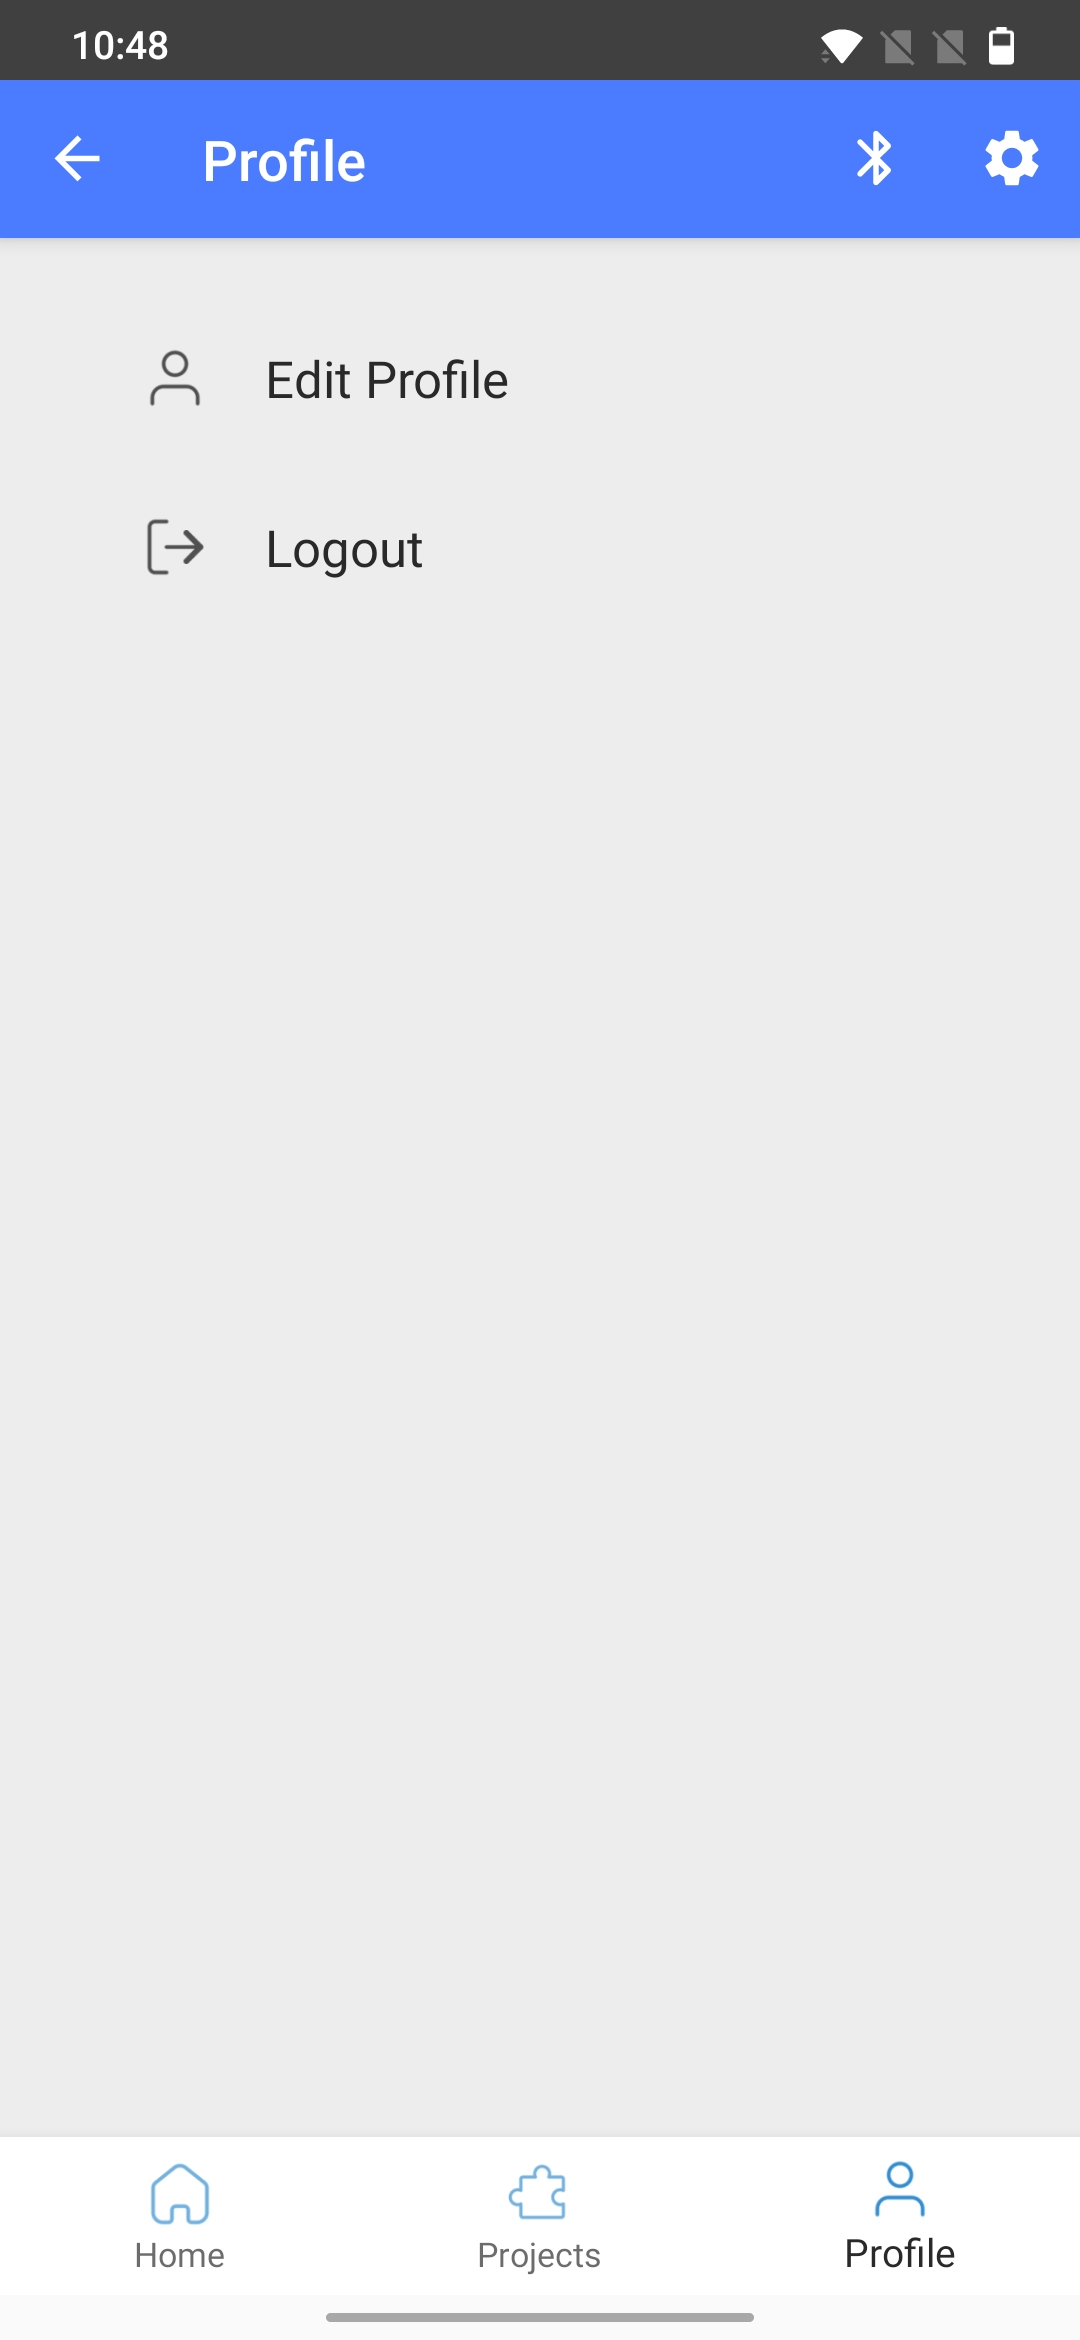
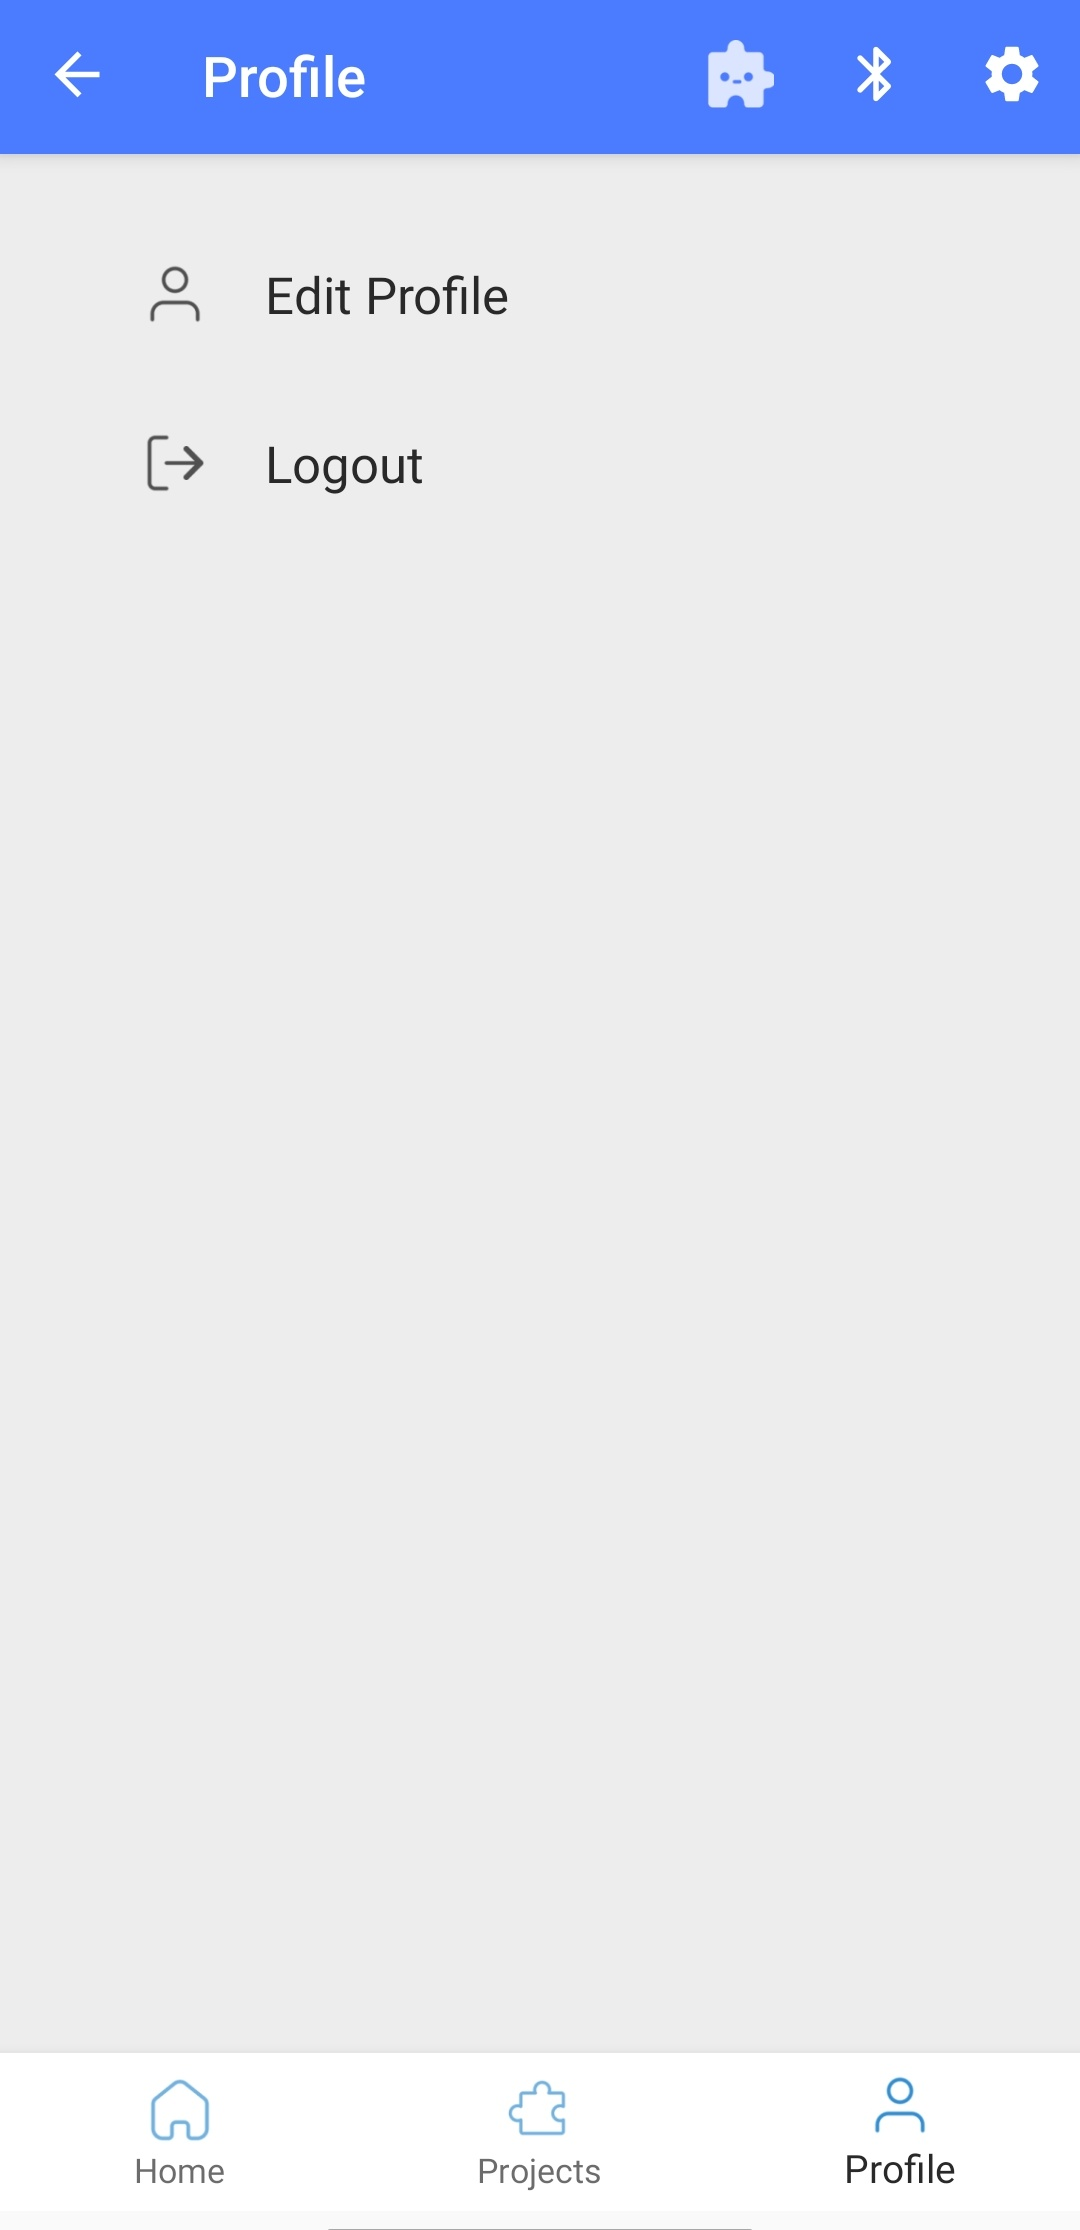
update screen shots and update with playground services in APP

diff --git a/android/app/README.md b/android/app/README.md
@@ -12,9 +12,9 @@ The app starts with a Home screen that shows all available screens to control yo
 
 <p align="left">
 <img style="padding-right: 2%;" src="../../docs/images/screen_main.gif" alt="Main Menu" width="24.5%"/>
-<img src="../../docs/images/screen_settings.jpg" alt="Settings Menu" width="24.5%"/>
-<img src="../../docs/images/dialog_stream_mode.jpg" alt="Settings Menu" width="24.5%"/>
-<img src="../../docs/images/dialog_connectivity_mode.jpg" alt="Settings Menu" width="24.5%"/>
+<img src="../../docs/images/screen_settings.jpg" alt="Settings Menu" width="24%"/>
+<img src="../../docs/images/dialog_stream_mode.jpg" alt="Settings Menu" width="24%"/>
+<img src="../../docs/images/dialog_connectivity_mode.jpg" alt="Settings Menu" width="24%"/>
 </p>
 
 ### Settings Menu
@@ -373,9 +373,12 @@ If a model is active, the inference speed in [ms] will be displayed next to the 
 ### Projects Screen
 
 The Projects Screen displays a list of your OpenBot Playground projects if you are signed in with your Google account. You can execute these projects to connect with your OpenBot, or scan their QR codes by clicking the scanner icon in the top right corner. If you are not signed in, the screen will display a Google Sign-In button, but you can still scan your project's QR code without signing in. If you get the message `Oops, no project found` on the screen after signing in, make sure that the account has projects stored on Google Drive.
+
+If you don't see your latest projects in the project list, you can reload them by pulling down on the project screen.
 <p align="left">
 <img src="../../docs/images/projects_tab_screen.gif" alt="Project Screen" width="25%"/>
-<img src="../../docs/images/no_projects_found.jpg" alt="No project screen" width="25%"/>
+<img src="../../docs/images/no_projects_found.jpg" alt="No project screen" width="26.5%"/>
+<img src="../../docs/images/reload_projects.gif" alt="Reload project screen" width="25%"/>
 </p>
 
 - **Google Drive projects**: To run a Google Drive project, tap on the project you want to execute and wait for the contents of the project file to be read. If the file is successfully retrieved without any errors, a pop-up will appear with two buttons: `Start` and `Cancel`. The pop-up will also display the name of the project you are about to run. To execute the project, click on the Start button. If you want to stop the activity, click on the Cancel button. If you receive a pop-up message stating `Something went wrong`, there may be an error with the Google Drive file. To resolve this issue, refresh the project screen by pulling down and then repeating the same process.
@@ -384,11 +387,15 @@ The Projects Screen displays a list of your OpenBot Playground projects if you a
 - **Qr code scanner**: To scan the QR code of a Playground project, click on the QR code icon located in the top right corner of the screen. Grant camera access to the app so that it can scan the QR code. Once the code is scanned, wait for the contents of the file to be read. If the file is retrieved successfully without any errors, a pop-up will appear with two buttons: `Start` and `Cancel`. The pop-up will also display the name of the project you are about to run. To execute the project, click on the Start button. If you want to stop the activity, click on the Cancel button. If you receive a pop-up message stating `Something went wrong`, there may be an error with the Google Drive file. To resolve this issue, generate a new QR code in Playground and repeat the process.
 
 
-- **Executing Project**: If your OpenBot Playground project runs successfully, a screen with the message `Your code is executing...` will appear.
+- **Executing Project**: If your OpenBot Playground project runs successfully, the screen will display the names of code blocks along with a stop button that can be used to stop the execution of playground block commands.
+
+
+- **Delete Project**: To delete a project, long-press on the project you wish to delete. This will bring up a popup screen asking to confirm the deletion. Tap on 'Yes' to delete the project.
 
 <p align="left">
 <img src="../../docs/images/google_drive_projects_execute.gif" alt="Google Drive project execute" width="25%"/>
 <img src="../../docs/images/qr_code_scanner_projects_execute.gif" alt="Qr code scanner project execute" width="25%"/>
+<img src="../../docs/images/delete_project.jpg" alt="Delete Project" width="26.5%"/>
 </p>
 
 ### Profile Screen
@@ -409,6 +416,15 @@ If the user is signed in, two buttons will be listed in the  `Profile` tab: `Edi
 <p>
 <img src="../../docs/images/edit_profile_screen.jpg" alt="Edit profile screen" width="25%"/>
 <img src="../../docs/images/logout_dialog_box.jpg" alt="Logout dialog box" width="25%"/>
+</p>
+
+### OpenBot PlayGround Screen
+
+To access OpenBot Playground services, click on the OpenBot Playground icon located at the top of the screen in the toolbar options. If you want to learn more about OpenBot Playground, [click here](https://github.com/3dwesupport/OpenBot/blob/react-blockly/open-code/README.md).
+
+<p>
+<img src="../../docs/images/playground_sign-in.gif" alt="openBot playground Sign-in" width="25%"/>
+<img src="../../docs/images/playground_services.gif" alt="openBot playground Sign-in" width="25%"/>
 </p>
 ## Add your own fragment
 
